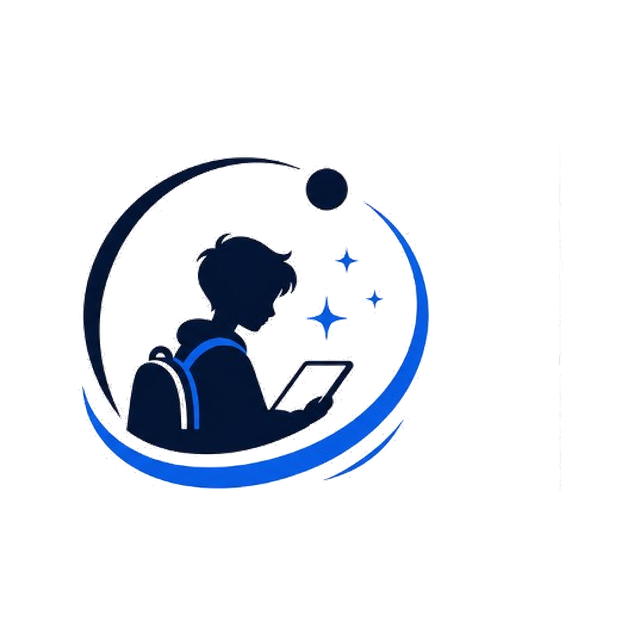
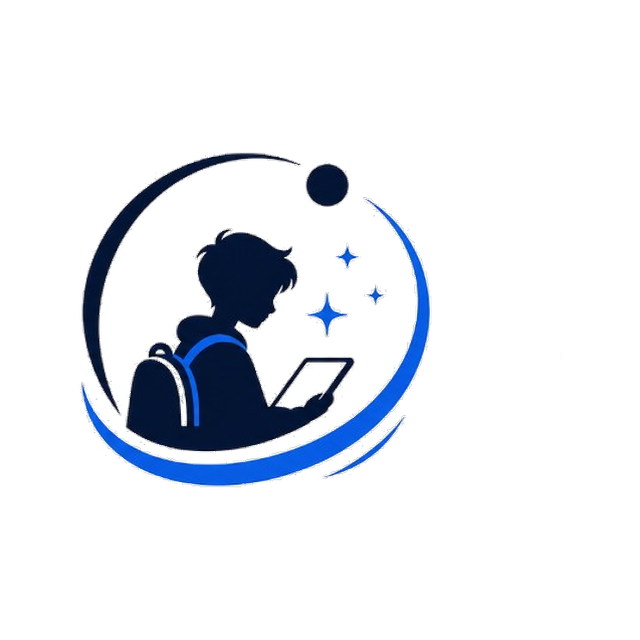
Restore the real Orbit PNG mark and give it safe padding.
Drop the stand-in SVG, keep the brand icons, and scale them inside a slightly larger frame so the orbit is no longer clipped.

diff --git a/src/components/brand/OrbitLogo.tsx b/src/components/brand/OrbitLogo.tsx
@@ -1,4 +1,3 @@
-import { useId } from 'react'
 import { useOrbitStore } from '../../store/orbitStore'
 
 type OrbitLogoProps = {
@@ -8,74 +7,9 @@ type OrbitLogoProps = {
   showTagline?: boolean
 }
 
-const VER = 'v7'
+const VER = 'v8'
 
-/** Theme-aware SVG mark — full orbit, never clipped by raster crops. */
-function OrbitMarkSvg({ className = '', title }: { className?: string; title?: string }) {
-  const theme = useOrbitStore((s) => s.theme)
-  const gradId = useId().replace(/:/g, '')
-  const ink = theme === 'light' ? '#0B1F44' : '#F8FAFC'
-  const royal = '#2563EB'
-  const glow = theme === 'light' ? '#3B82F6' : '#38BDF8'
-  const tablet = theme === 'light' ? '#E8EEF9' : '#0B1F44'
-
-  return (
-    <svg
-      xmlns="http://www.w3.org/2000/svg"
-      viewBox="0 0 120 120"
-      fill="none"
-      className={`block overflow-visible ${className}`}
-      role="img"
-      aria-label={title || 'Orbit'}
-    >
-      <defs>
-        <linearGradient id={gradId} x1="18" y1="102" x2="102" y2="22" gradientUnits="userSpaceOnUse">
-          <stop stopColor={royal} />
-          <stop offset="1" stopColor={glow} />
-        </linearGradient>
-      </defs>
-      <path
-        d="M30 84c-8-16-6-36 10-50 14-12 34-16 52-10"
-        stroke={ink}
-        strokeWidth="6.5"
-        strokeLinecap="round"
-      />
-      <path
-        d="M24 88c20 18 48 22 74 8 12-6 20-16 24-26"
-        stroke={`url(#${gradId})`}
-        strokeWidth="5.5"
-        strokeLinecap="round"
-      />
-      <path
-        d="M32 96c18 12 42 14 64 2"
-        stroke={glow}
-        strokeWidth="3"
-        strokeLinecap="round"
-        opacity="0.9"
-      />
-      <circle cx="94" cy="32" r="5.5" fill={royal} />
-      <g fill={ink}>
-        <ellipse cx="56" cy="40" rx="9.5" ry="10.5" />
-        <path d="M41 92c2-20 9-31 16-35 4-2.5 11-2.5 15.5 1.5 7 5 13.5 16 16 34-9 4.5-20 7-31 5.5-6 0-11.5-2.5-16.5-6z" />
-        <path d="M43 60c-5 2.5-9.5 10-10.5 19 5 2.5 9.5 3.5 14 3.5 1-8 2.5-15 5-19.5-3.5-1.5-6-2-8.5-3z" />
-      </g>
-      <path
-        d="M44 66c-1.5 4-2 9-2 13"
-        stroke={glow}
-        strokeWidth="1.6"
-        strokeLinecap="round"
-        opacity="0.85"
-      />
-      <rect x="52" y="60" width="17" height="12" rx="1.8" fill={tablet} stroke={ink} strokeWidth="1.3" />
-      <path d="M55 63.5h11M55 66.5h8" stroke={glow} strokeWidth="1.1" strokeLinecap="round" />
-      <path d="M78 46l1.3 3 3 1.3-3 1.3-1.3 3-1.3-3-3-1.3 3-1.3 1.3-3z" fill={glow} />
-      <path d="M87 53l.9 2 2 .9-2 .9-.9 2-.9-2-2-.9 2-.9.9-2z" fill={ink} />
-      <path d="M82 40l.7 1.5 1.5.7-1.5.7-.7 1.5-.7-1.5-1.5-.7 1.5-.7.7-1.5z" fill={royal} />
-    </svg>
-  )
-}
-
-/** Official Orbit brand — theme-aware logos (SVG mark + PNG hero). */
+/** Official Orbit brand — theme-aware transparent PNGs with safe padding. */
 export function OrbitLogo({
   variant = 'lockup',
   className = '',
@@ -84,30 +18,40 @@ export function OrbitLogo({
 }: OrbitLogoProps) {
   const theme = useOrbitStore((s) => s.theme)
   const logo = theme === 'light' ? `/brand/orbit-logo-light.png?${VER}` : `/brand/orbit-logo-dark.png?${VER}`
+  const icon = theme === 'light' ? `/brand/orbit-icon-light.png?${VER}` : `/brand/orbit-icon-dark.png?${VER}`
   const wordColor = theme === 'light' ? 'text-[#0B1F44]' : 'text-[#F8FAFC]'
   const tagMuted = theme === 'light' ? 'text-slate-500' : 'text-slate-400'
 
   if (variant === 'mark') {
-    return <OrbitMarkSvg className={`${markClassName || 'h-8 w-8'} ${className}`} title="Orbit" />
+    return (
+      <span className={`inline-flex items-center justify-center overflow-visible ${markClassName || 'h-9 w-9'} ${className}`}>
+        <img
+          src={icon}
+          alt="Orbit"
+          className="block h-[86%] w-[86%] object-contain bg-transparent"
+          draggable={false}
+        />
+      </span>
+    )
   }
 
   if (variant === 'hero') {
     return (
-      <div className={`relative flex justify-center overflow-visible bg-transparent ${className}`}>
+      <div className={`relative flex justify-center overflow-visible bg-transparent px-2 py-1 ${className}`}>
         <div
-          className="pointer-events-none absolute inset-[-18%] rounded-full opacity-40 blur-3xl transition-opacity duration-500"
+          className="pointer-events-none absolute inset-[-12%] rounded-full opacity-35 blur-3xl"
           style={{
             background:
               theme === 'light'
-                ? 'radial-gradient(circle, rgba(37,99,235,0.22), transparent 70%)'
-                : 'radial-gradient(circle, rgba(56,189,248,0.28), transparent 68%)',
+                ? 'radial-gradient(circle, rgba(37,99,235,0.2), transparent 70%)'
+                : 'radial-gradient(circle, rgba(56,189,248,0.26), transparent 68%)',
           }}
           aria-hidden
         />
         <img
           src={logo}
           alt="Orbit — Your learning. Our orbit."
-          className="relative block h-auto w-[140px] sm:w-[160px] object-contain object-center bg-transparent overflow-visible transition-[filter] duration-500"
+          className="relative block h-auto w-[132px] sm:w-[152px] object-contain bg-transparent"
           draggable={false}
         />
       </div>
@@ -115,8 +59,15 @@ export function OrbitLogo({
   }
 
   return (
-    <div className={`flex items-center gap-2.5 min-w-0 overflow-visible bg-transparent ${className}`}>
-      <OrbitMarkSvg className={`h-9 w-9 shrink-0 ${markClassName}`} />
+    <div className={`flex items-center gap-2.5 min-w-0 overflow-visible bg-transparent py-0.5 ${className}`}>
+      <span className={`inline-flex h-10 w-10 shrink-0 items-center justify-center overflow-visible ${markClassName}`}>
+        <img
+          src={icon}
+          alt=""
+          className="block h-[86%] w-[86%] object-contain bg-transparent"
+          draggable={false}
+        />
+      </span>
       <div className="min-w-0 leading-tight">
         <div className={`font-brand text-[1.15rem] tracking-[-0.02em] leading-none ${wordColor}`}>Orbit</div>
         {showTagline ? (
@@ -130,5 +81,16 @@ export function OrbitLogo({
 }
 
 export function OrbitMark({ className = '', title = 'Orbit' }: { className?: string; title?: string }) {
-  return <OrbitMarkSvg className={className || 'h-8 w-8'} title={title} />
+  const theme = useOrbitStore((s) => s.theme)
+  const icon = theme === 'light' ? `/brand/orbit-icon-light.png?${VER}` : `/brand/orbit-icon-dark.png?${VER}`
+  return (
+    <span className={`inline-flex items-center justify-center overflow-visible ${className || 'h-8 w-8'}`}>
+      <img
+        src={icon}
+        alt={title}
+        className="block h-[86%] w-[86%] object-contain bg-transparent"
+        draggable={false}
+      />
+    </span>
+  )
 }

diff --git a/src/features/auth/LandingPage.tsx b/src/features/auth/LandingPage.tsx
@@ -16,8 +16,8 @@ export function LandingPage() {
 
   return (
     <div className="orbit-root h-dvh w-full overflow-hidden">
-      <div className="h-full max-w-5xl mx-auto px-4 sm:px-6 py-3 sm:py-4 flex flex-col gap-3 sm:gap-4">
-        <header className="flex items-center justify-between gap-3 shrink-0">
+      <div className="h-full max-w-5xl mx-auto px-4 sm:px-6 pt-4 sm:pt-5 pb-3 sm:pb-4 flex flex-col gap-3 sm:gap-4">
+        <header className="flex items-center justify-between gap-3 shrink-0 overflow-visible">
           <OrbitLogo variant="lockup" showTagline={false} />
           <div className="flex items-center gap-2 sm:gap-3">
             <ThemeToggle />

diff --git a/src/components/brand/ThemeSync.tsx b/src/components/brand/ThemeSync.tsx
@@ -13,7 +13,7 @@ export function ThemeSync() {
     if (meta) meta.setAttribute('content', theme === 'light' ? '#F4F7FC' : '#0B1F44')
       const icon = document.querySelector('link[rel="icon"]') as HTMLLinkElement | null
     if (icon) {
-      icon.href = theme === 'light' ? '/brand/orbit-icon-light.png?v7' : '/brand/orbit-icon-dark.png?v7'
+      icon.href = theme === 'light' ? '/brand/orbit-icon-light.png?v8' : '/brand/orbit-icon-dark.png?v8'
     }
   }, [theme])
 

diff --git a/src/components/layout/Sidebar.tsx b/src/components/layout/Sidebar.tsx
@@ -165,7 +165,7 @@ export function Sidebar() {
         aria-label="Primary navigation"
       >
         <div className="space-y-6 overflow-y-auto orbit-scroll pr-1">
-          <div className="flex items-center justify-between px-1">
+          <div className="flex items-center justify-between px-1 overflow-visible py-0.5">
             <OrbitLogo variant="lockup" />
             <button
               type="button"
